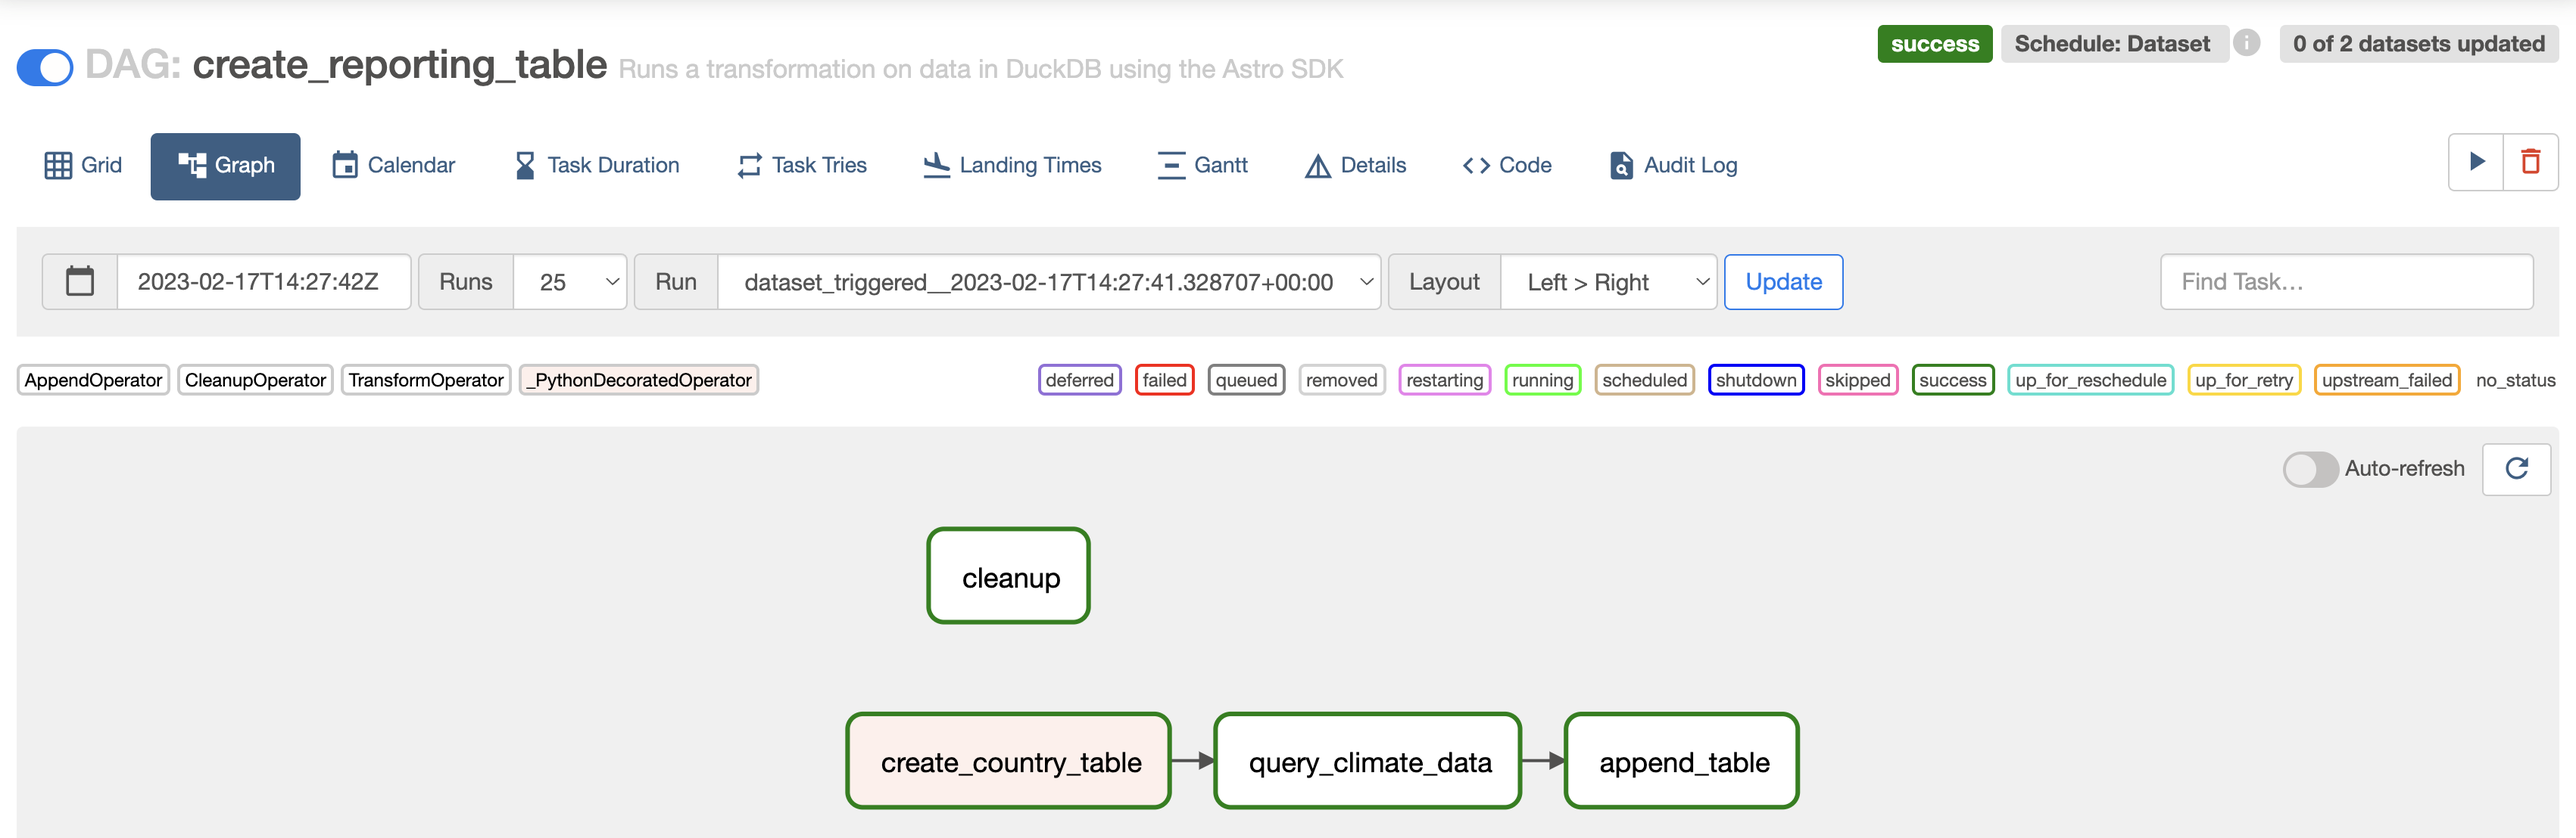
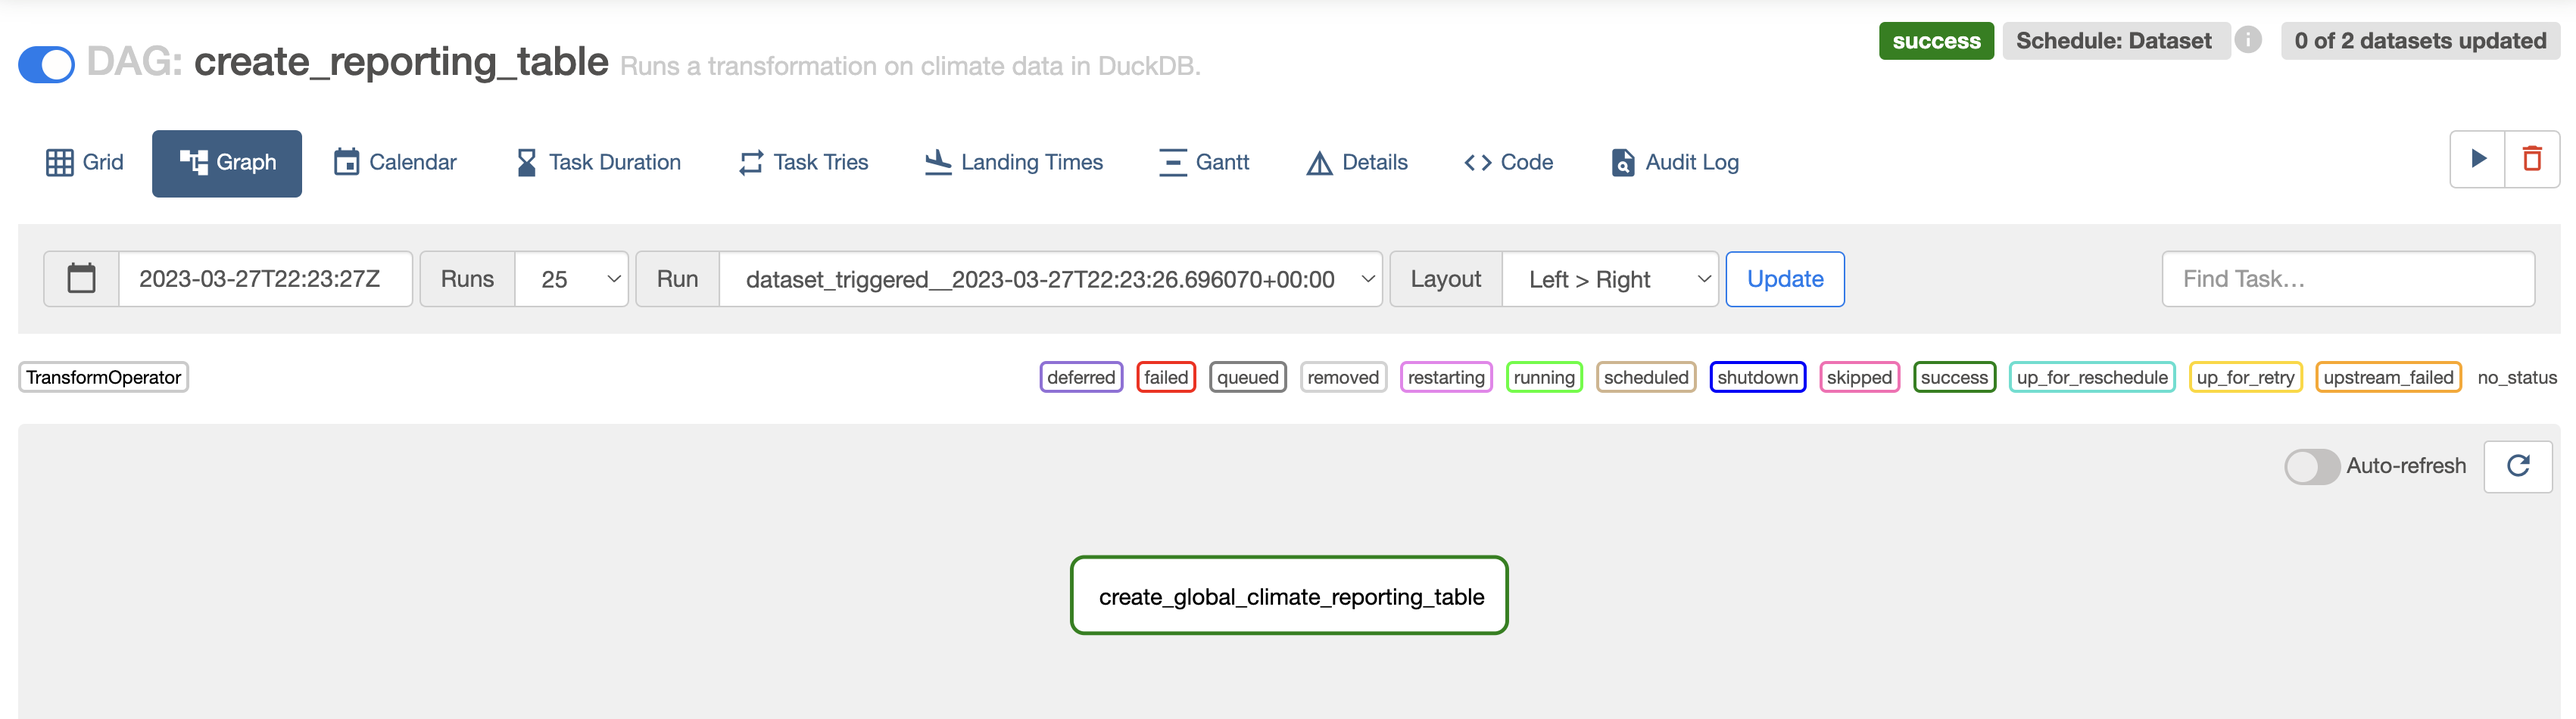
update readme and screenshots

diff --git a/dags/transform/create_reporting_table.py b/dags/transform/create_reporting_table.py
@@ -46,7 +46,7 @@ def create_global_climate_reporting_table(
 @dag(
     start_date=datetime(2023, 1, 1),
     # this DAG runs as soon as the climate and weather data is ready in DuckDB
-    schedule=[gv.DS_DUCKDB_IN_CLIMATE],
+    schedule=[gv.DS_DUCKDB_IN_CLIMATE, gv.DS_DUCKDB_IN_WEATHER],
     catchup=False,
     default_args=gv.default_args,
     description="Runs a transformation on climate data in DuckDB.",

diff --git a/dags/start.py b/dags/start.py
@@ -32,7 +32,7 @@ from include.global_variables import global_variables as gv
 def start():
 
     create_duckdb_pool = BashOperator(
-        task_id="bash_task",
+        task_id="create_duckdb_pool",
         bash_command="airflow pools list | grep -q 'duckdb' || airflow pools set duckdb 1 'Pool for duckdb'",
         outlets=[gv.DS_START],
     )

diff --git a/dags/load/load_data.py b/dags/load/load_data.py
@@ -178,8 +178,7 @@ def load_data():
     weather_data = load_weather_data.partial(city=gv.MY_CITY).expand(
         obj=list_files_weather_bucket.output
     )
-
-    climate_data >> weather_data
+    
     archive_bucket = create_bucket_tg
 
     [climate_data, weather_data] >> archive_bucket

diff --git a/README.md b/README.md
@@ -95,7 +95,7 @@ In this section each DAG is explained in more detail.
 
 ![start DAG](src/start_dag.png)
 
-The `start` DAG simply exists for user convenience. Upon unpausing the DAG it will run once and afterwards can be used to manually start a run of the whole Data pipeline. This DAG contains one task using the [EmptyOperator](https://registry.astronomer.io/providers/apache-airflow/modules/emptyoperator) to produce to the `start` Dataset.
+The `start` DAG exists for user convenience and to create an [Airflow Pool](https://docs.astronomer.io/learn/airflow-pools) called `duckdb` with one worker slot in order to prevent tasks running queries against DuckDB from overlapping. Upon unpausing the DAG it will run once and afterwards can be used to manually start a run of the whole data pipeline. This DAG contains one task using the [BashOperator](https://registry.astronomer.io/providers/apache-airflow/modules/bashoperator) to create the pool and produce to the `start` Dataset.
 
 This DAG as all DAGs in this project uses the `@dag` decorator from the TaskFlow API. Learn more in [Introduction to Airflow decorators](https://docs.astronomer.io/learn/airflow-decorators).
 
@@ -107,7 +107,7 @@ This DAG will use a re-useable task group to create a `climate` bucket in MinIO 
 
 Learn more about task groups in the [Airflow task groups](https://docs.astronomer.io/learn/task-groups) guide and more about how to create reuseable task groups in the [Reusable DAG Patterns with TaskGroups](https://www.astronomer.io/events/live/reusable-dag-patterns-with-taskgroups/) webinar.
 
-After preparing the bucket. The DAG uses a dynamically mapped task called `ingest_climate_data` to ingest each file located in `include/climate_data` into MinIO. Dynamic task mapping is an Airflow feature that allows you to adjust the number of tasks used dynamically at runtime. See also the [Create dynamic Airflow tasks](https://docs.astronomer.io/learn/dynamic-tasks) guide.
+After preparing the bucket. The DAG uses the custom `LocalFilesystemToMinIOOperator` to ingest each file located in `include/climate_data` into MinIO. The operator uses dynamic task mapping, which makes it easy to add other `local_file_path`/`object_name` pairs to ingest additional files. Dynamic task mapping is an Airflow feature that allows you to adjust the number of tasks used dynamically at runtime. See also the [Create dynamic Airflow tasks](https://docs.astronomer.io/learn/dynamic-tasks) guide.
 
 #### in_local_weather
 
@@ -117,7 +117,7 @@ As the `in_climate_data` DAG, this DAG will use the re-useable `CreateBucket` cl
 
 In parallel the DAG will convert the city name you provided to coordinates and query an open API to retrieve the current weather for that location. 
 
-The last task in the DAG writes the API response to the MinIO bucket.
+The last task in the DAG writes the API response to the MinIO bucket using the `LocalFilesystemToMinIOOperator`.
 
 This DAG passes information from one task to another using XCom. Learn more about this core Airflow feature in the [Pass data between tasks](https://docs.astronomer.io/learn/airflow-passing-data-between-tasks) guide.
 
@@ -125,13 +125,13 @@ This DAG passes information from one task to another using XCom. Learn more abou
 
 ![load_data DAG](src/load_data_dag.png)
 
-This DAG will first retrieve lists of objects in the MinIO weather and climate bucket in order to load the contents of these objects into tables within DuckDB. After this step the `CreateBucket` class is used to create an `archive` bucket where all objects from the `weather` and `climate` bucket are copied into, before they are deleted from their ingestion buckets. This pattern ensures that only recent data is being processed every time the pipeline runs.
+This DAG will first retrieve lists of objects in the MinIO weather and climate buckets in order to load the contents of these objects into tables within DuckDB. After this step the `CreateBucket` class is used to create an `archive` bucket where all objects from the `weather` and `climate` bucket are copied into, before they are deleted from their ingestion buckets. This pattern ensures that only recent data is being processed every time the pipeline runs.
 
 #### create_reporting_table
 
 ![create_reporting_table DAG](src/create_reporting_table.png)
 
-This DAG uses another Astronomer Open Source project, the [Astro SDK](https://astro-sdk-python.readthedocs.io/en/stable/index.html) to run a transformation statement on data in DuckDB. The result from this transformation statement which selects the records from the climate data pertinent to the country you specified as `MY_COUNTRY` are appended to a newly created reporting table. You can learn more about the Astro SDK in the [Write a DAG with the Astro Python SDK](https://docs.astronomer.io/learn/astro-python-sdk) tutorial. 
+This DAG uses another Astronomer Open Source project, the [Astro SDK](https://astro-sdk-python.readthedocs.io/en/stable/index.html) to run a transformation statement on data in DuckDB. The result from this transformation statement which uses partitions to create temperature averages for each decade as well as year and month, is stored in a new table. You can learn more about the Astro SDK in the [Write a DAG with the Astro Python SDK](https://docs.astronomer.io/learn/astro-python-sdk) tutorial. 
 
 #### run_streamlit_app
 
